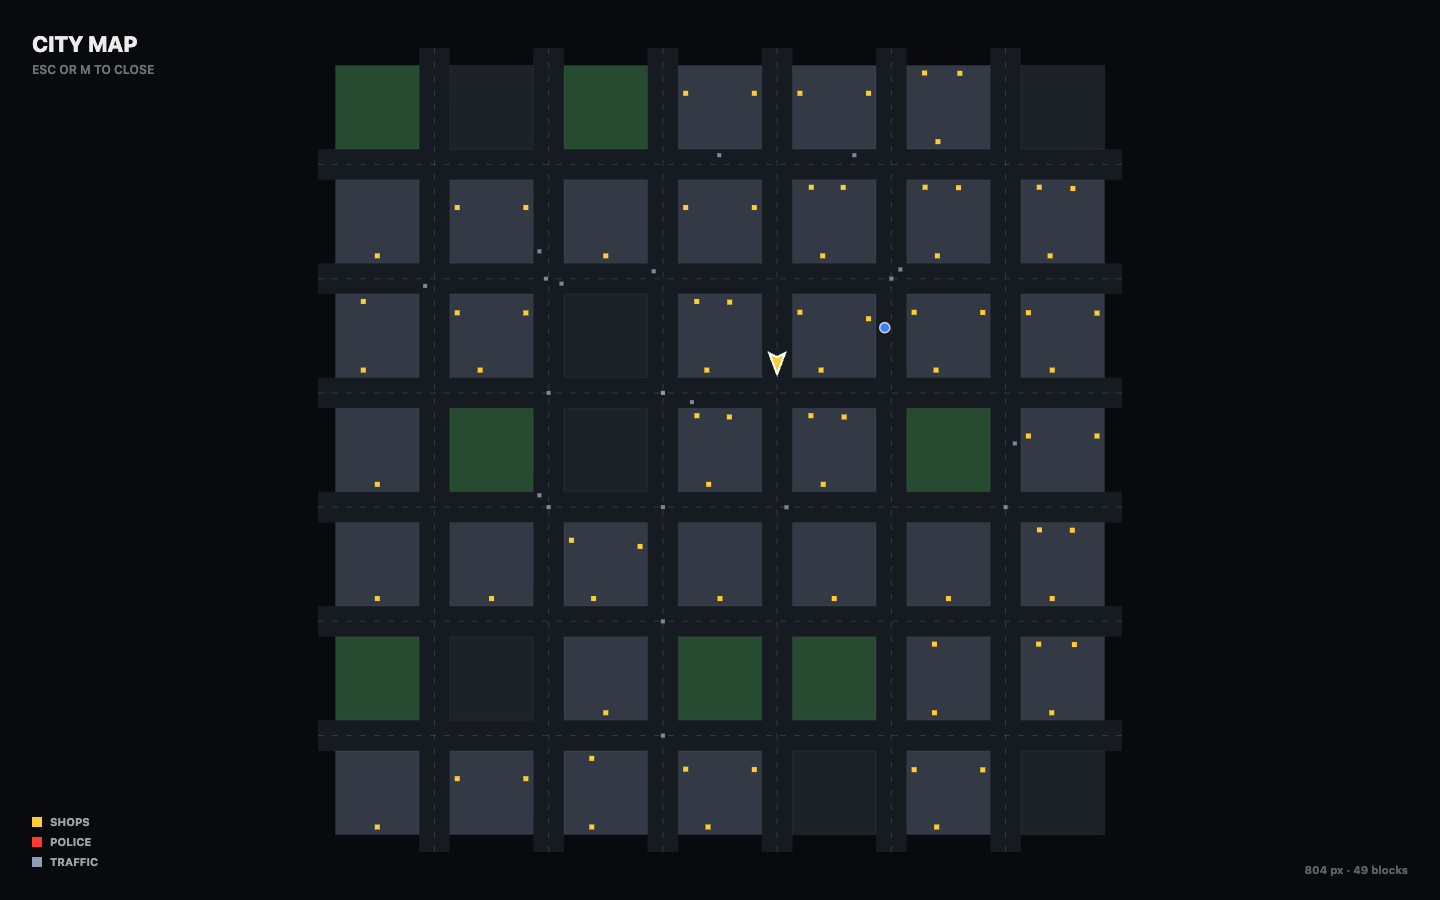
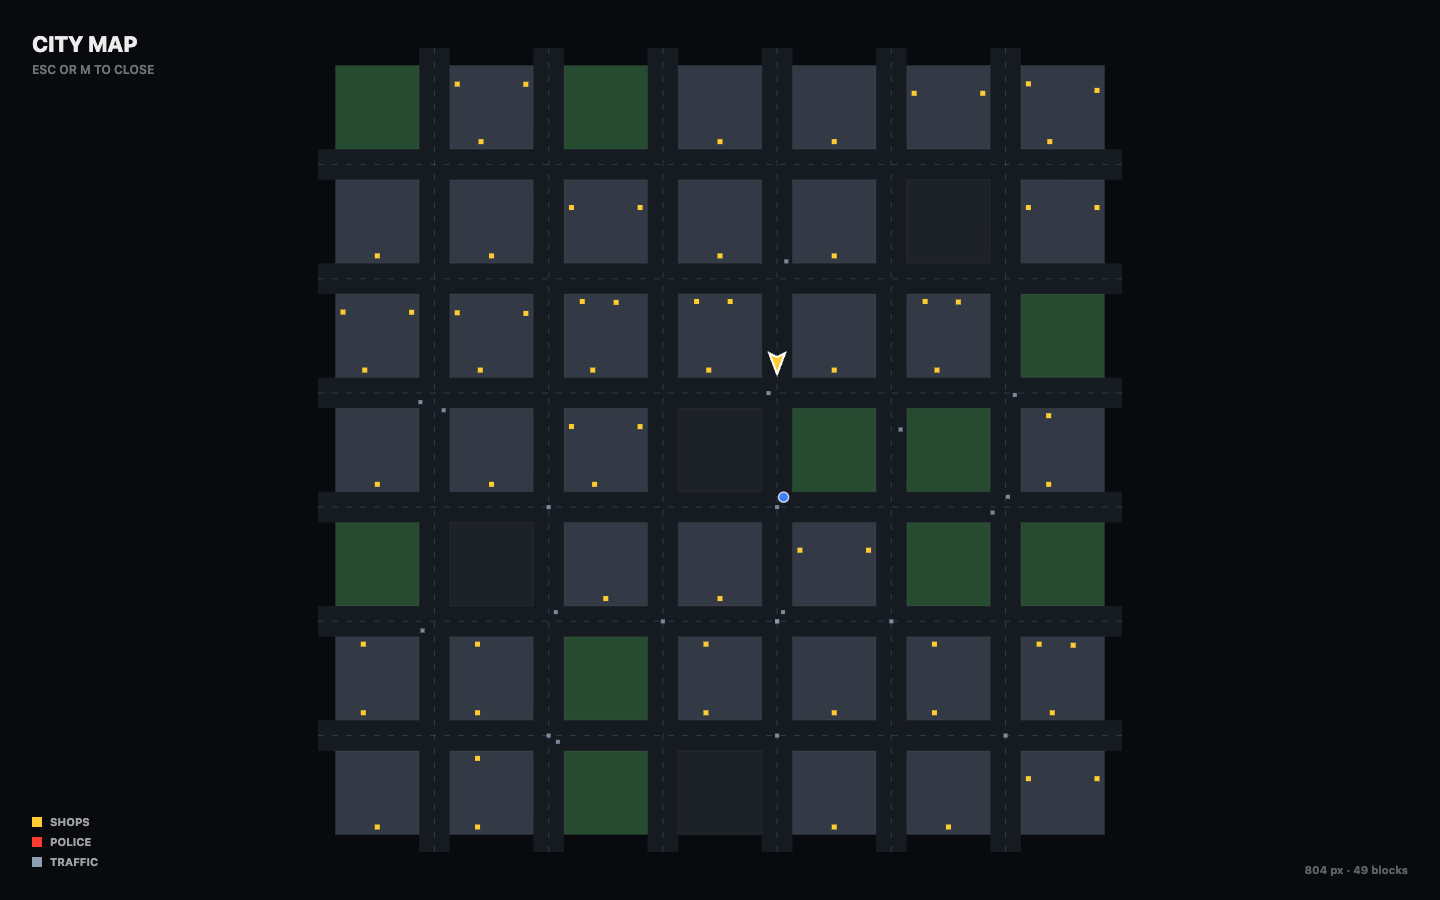
fix(save): persist the equipped weapon and every magazine
The save schema still hardcoded 'pistol' from before the weapon roster
landed, so Continue after a reload dropped an uzi back into the player's
hands with a full magazine and no reserve. The save now carries the
equipped id, the reserve behind it and a per-weapon ammo table; applySave
rebuilds that table, re-derives owned weapons from it and equips before it
writes the magazine, so HUD, reserve and cycling all agree.

newGame drops the ammo table and re-equips the pistol instead of poking
mag/magSize by hand, which also removes the model left by the last run.

persistence.mjs covers the round trip for a non-default weapon (uzi) and
refreshes the map screenshot.

diff --git a/src/main.ts b/src/main.ts
@@ -1209,6 +1209,13 @@ function formatAgo(ts: number) {
   return `${Math.round(secs / 3600)} h ago`;
 }
 
+/** Plain copy of the per-weapon ammo map (the live record is mutated by fire/reload). */
+function weaponAmmoSnapshot(): Record<string, { mag: number; reserve: number }> {
+  const out: Record<string, { mag: number; reserve: number }> = {};
+  for (const [id, st] of Object.entries(player.ammo)) out[id] = { mag: st.mag, reserve: st.reserve };
+  return out;
+}
+
 /** Snapshot everything that survives a refresh. No scene objects, no timers. */
 function captureSave(): Omit<SaveData, 'version' | 'savedAt'> {
   // inside a shop the logical position is the room's, not the street's: save the
@@ -1228,12 +1235,13 @@ function captureSave(): Omit<SaveData, 'version' | 'savedAt'> {
     hp: player.hp,
     wanted: police.wanted,
     dayT,
-    // this build has one gun: the pistol is the whole roster, saved by name so a
-    // later weapon system can extend the field without a schema bump
-    weapon: 'pistol',
+    // the whole roster is switchable, so every magazine travels with the save
+    weapon: player.weapon,
     ammo: player.mag,
+    reserve: ammoFor(player.weapon).reserve,
     magSize: player.magSize,
-    ownedWeapons: ['pistol'],
+    weapons: weaponAmmoSnapshot(),
+    ownedWeapons: Object.keys(player.ammo),
     objectives: {
       drove: flags.drove,
       chaos: flags.chaos,
@@ -1262,8 +1270,16 @@ function applySave(data: SaveData) {
   player.inInterior = null;
   player.hp = clamp(data.hp, 1, 100);
   player.cash = data.cash;
-  player.mag = clamp(data.ammo, 0, data.magSize);
-  player.magSize = data.magSize;
+  // rebuild the ammo table first, then equip so the magazine, reserve and HUD all
+  // come from the same record the save carried
+  player.ammo = {};
+  for (const [id, st] of Object.entries(data.weapons)) {
+    if (WEAPONS[id as WeaponId]) player.ammo[id] = { mag: st.mag, reserve: st.reserve };
+  }
+  for (const id of data.ownedWeapons) if (WEAPONS[id as WeaponId]) ammoFor(id as WeaponId);
+  equipWeapon((WEAPONS[data.weapon as WeaponId] ? data.weapon : 'pistol') as WeaponId);
+  player.mag = clamp(data.ammo, 0, player.magSize);
+  ammoFor(player.weapon).mag = player.mag;
   player.reloading = 0;
   player.lastHit = performance.now() - 60000; // a restored wound should still regen
   camYaw = data.player.camYaw;
@@ -1359,6 +1375,7 @@ function newGame() {
   player.yaw = 0;
   player.hp = 100;
   player.cash = 250;
+  player.ammo = {};
   player.mag = 12;
   player.magSize = 12;
   player.reloading = 0;
@@ -1435,10 +1452,10 @@ function newGame() {
   }
   audio.engineUpdate({ on: false });
 
+  equipWeapon('pistol'); // fresh mag + reserve, and drops any model the last run held
   hud.setCash(player.cash);
   hud.setHealth(player.hp);
   hud.setStars(0);
-  hud.setAmmo(player.mag, player.magSize, false);
   hud.setObjective(objectiveText());
   hud.setPrompt('');
   hud.showPause(false);

diff --git a/src/save.ts b/src/save.ts
@@ -32,10 +32,15 @@ export interface SaveData {
   hp: number;
   wanted: number;
   dayT: number;
-  /** no weapon roster in this build: the pistol is the only gun, kept for forward compatibility */
+  /** equipped weapon id from the `WEAPONS` table, e.g. `uzi` */
   weapon: string;
+  /** magazine of the equipped weapon */
   ammo: number;
+  /** reserve rounds behind that magazine */
+  reserve: number;
   magSize: number;
+  /** per-weapon ammo so switching guns after a reload keeps every magazine honest */
+  weapons: Record<string, { mag: number; reserve: number }>;
   ownedWeapons: string[];
   objectives: Objectives;
 }
@@ -98,6 +103,20 @@ function dropRaw(key: string) {
 }
 
 const isNum = (v: any): v is number => typeof v === 'number' && Number.isFinite(v);
+
+/** Per-weapon ammo is a plain map; unknown ids are ignored, numbers are bounded. */
+function normalizeWeaponAmmo(src: any): Record<string, { mag: number; reserve: number }> {
+  const out: Record<string, { mag: number; reserve: number }> = {};
+  if (!src || typeof src !== 'object' || Array.isArray(src)) return out;
+  for (const [id, st] of Object.entries(src as Record<string, any>)) {
+    if (!st || typeof st !== 'object') continue;
+    out[id] = {
+      mag: Math.round(clampNum(st.mag, 0, 999, 0)),
+      reserve: Math.round(clampNum(st.reserve, 0, 9999, 0)),
+    };
+  }
+  return out;
+}
 const clampNum = (v: any, lo: number, hi: number, fallback: number) =>
   isNum(v) ? Math.min(hi, Math.max(lo, v)) : fallback;
 
@@ -134,8 +153,12 @@ function normalizeSave(v: any): SaveData {
     dayT: clampNum(v.dayT, 0, 1, 0.34) % 1,
     weapon: typeof v.weapon === 'string' ? v.weapon : 'pistol',
     ammo: Math.round(clampNum(v.ammo, 0, 999, 12)),
+    reserve: Math.round(clampNum(v.reserve, 0, 9999, 24)),
     magSize: Math.round(clampNum(v.magSize, 1, 999, 12)),
-    ownedWeapons: Array.isArray(v.ownedWeapons) ? v.ownedWeapons.filter((w: any) => typeof w === 'string') : ['pistol'],
+    weapons: normalizeWeaponAmmo(v.weapons),
+    ownedWeapons: Array.isArray(v.ownedWeapons)
+      ? v.ownedWeapons.filter((w: any) => typeof w === 'string')
+      : Object.keys(normalizeWeaponAmmo(v.weapons)),
     objectives: {
       drove: !!src.drove,
       chaos: !!src.chaos,
